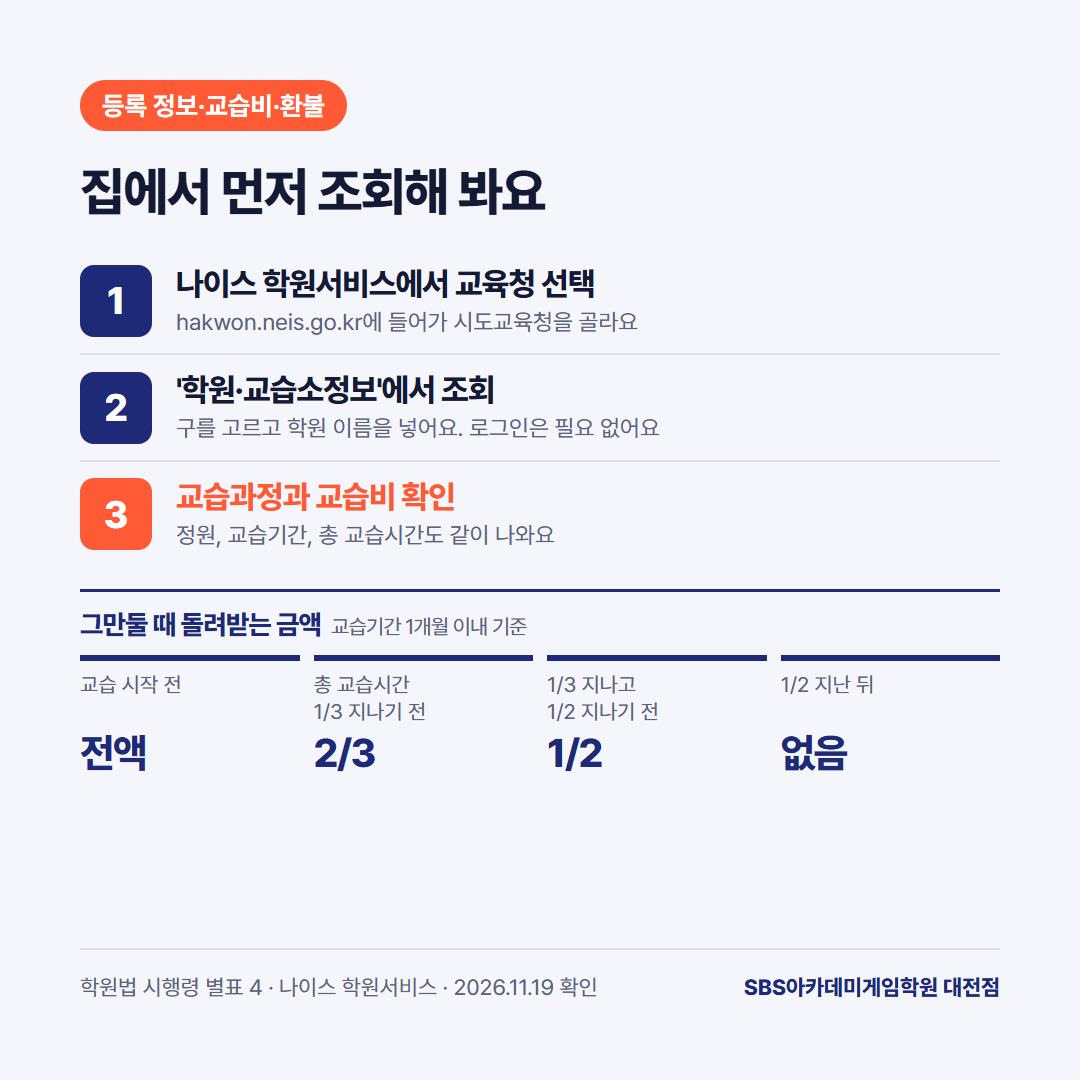
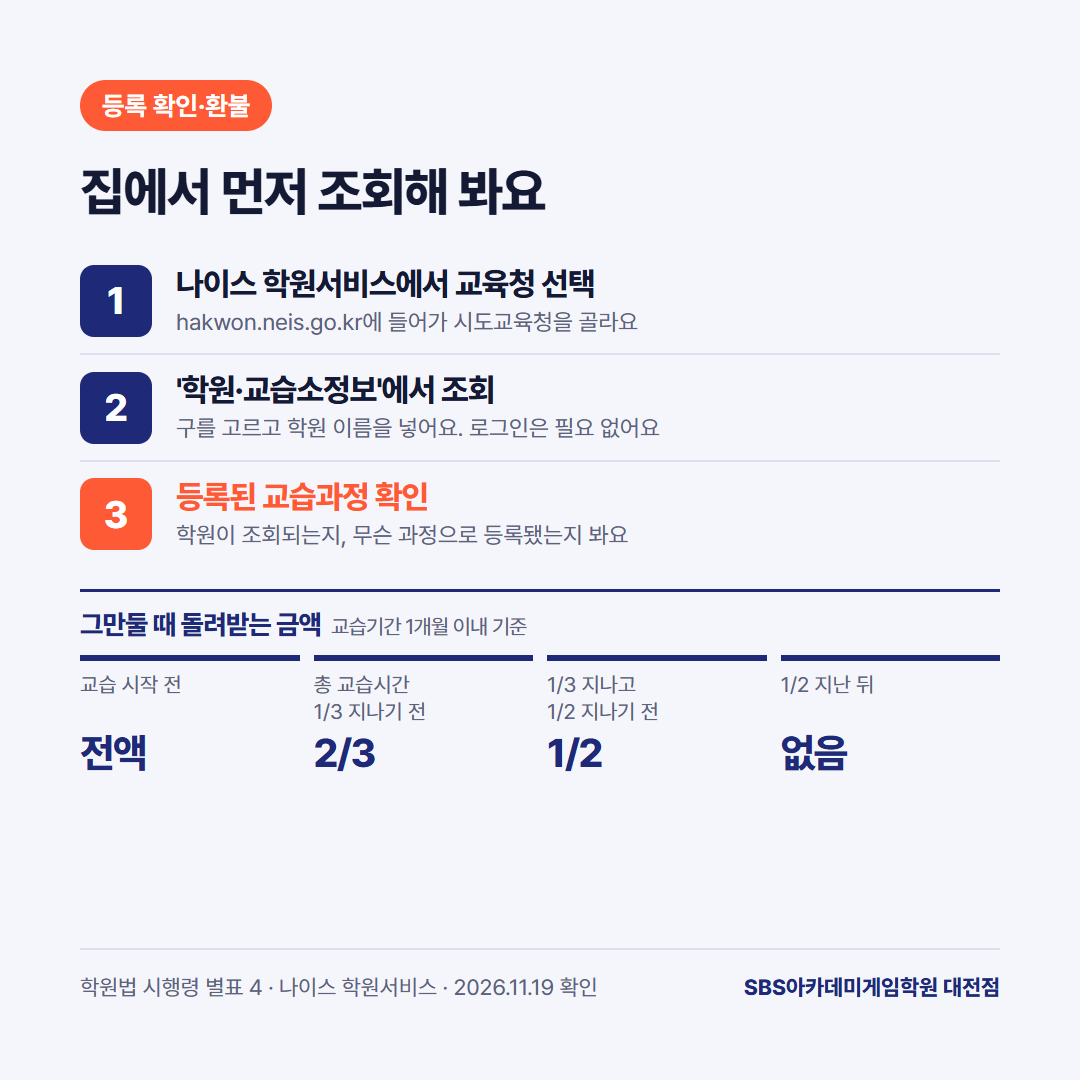
학원비 비공개 원칙·대전점 과정 대조 기록, 일러스트 학원 글 개정(교습비 조회 안내 삭제, 과정 문단 수정) → 티스토리 44번 비공개 저장 (2026-11-19)

Changed region(s): [[0.1528, 0.4278, 0.5806, 0.5194], [0.1222, 0.0611, 0.3361, 0.1222]]

diff --git a/posts/2026-11-19_일러스트-학원-고르는-법/네이버_붙여넣기용.html b/posts/2026-11-19_일러스트-학원-고르는-법/네이버_붙여넣기용.html
@@ -21,7 +21,7 @@ body{margin:0;background:#EEF1F7;font-family:'Malgun Gothic',sans-serif}
 <p style="font-size:15px;line-height:1.8;color:#222;margin:0;">"일러스트 학원 다니려는데 어디가 좋아요?" 상담 전화에서 자주 듣는 질문이에요.</p>
 <p style="font-size:15px;line-height:1.8;color:#222;margin:0;">어디가 좋은지는 뭘 하려고 배우는지에 따라 달라져요. '일러스트 학원'이라는 이름 아래에 서로 다른 학원 네 종류가 섞여 있거든요.</p>
 <p style="margin:0;"><br></p>
-<p style="font-size:15px;line-height:1.8;color:#222;margin:0;">오늘은 그 네 종류부터 갈라 볼게요. 그다음 상담에서 물어볼 것, 교습비를 조회하는 곳, 환불 기준, 국비 순서를 차례로 적었어요.</p>
+<p style="font-size:15px;line-height:1.8;color:#222;margin:0;">오늘은 그 네 종류부터 갈라 볼게요. 그다음 상담에서 물어볼 것, 등록된 학원인지 확인하는 곳, 환불 기준, 국비 순서를 차례로 적었어요.</p>
 <p style="margin:0;"><br></p>
 <p style="font-size:15px;line-height:1.8;color:#222;margin:0;">(2026년 11월 19일에 학원법과 시행령, 나이스 학원서비스 조회 화면을 직접 열어 보고 썼어요.)</p>
 <p style="margin:0;"><br></p>
@@ -29,7 +29,7 @@ body{margin:0;background:#EEF1F7;font-family:'Malgun Gothic',sans-serif}
 <p style="font-size:15px;line-height:1.8;color:#333;margin:0;">· '일러스트레이터 학원'은 프로그램 수업과 그림 수업 두 가지 뜻이에요.</p>
 <p style="font-size:15px;line-height:1.8;color:#333;margin:0;">· 그림을 배우는 곳은 취미, 입시 미술, 포트폴리오 과정으로 또 갈려요.</p>
 <p style="font-size:15px;line-height:1.8;color:#333;margin:0;">· 상담에서는 수업이 끝났을 때 남는 작품부터 물어봐요.</p>
-<p style="font-size:15px;line-height:1.8;color:#333;margin:0;">· 교습비와 교습과정은 나이스 학원서비스에서 조회돼요.</p>
+<p style="font-size:15px;line-height:1.8;color:#333;margin:0;">· 등록된 학원인지는 나이스 학원서비스에서 조회돼요.</p>
 <p style="font-size:15px;line-height:1.8;color:#333;margin:0;">· 환불 기준은 학원법 시행령에 정해져 있어요.</p>
 <p style="margin:0;"><br></p>
 <p style="margin:0;"><br></p>
@@ -79,20 +79,18 @@ body{margin:0;background:#EEF1F7;font-family:'Malgun Gothic',sans-serif}
 <p style="font-size:15px;line-height:1.8;color:#222;margin:0;">여러 학원에 똑같이 묻고 답을 적어 두세요. 나란히 놓으면 차이가 보여요. 그려 둔 그림이 있으면 꼭 가져가세요.</p>
 <p style="margin:0;"><br></p>
 <p style="margin:0;"><br></p>
-<p style="font-size:19px;font-weight:bold;line-height:1.6;color:#1E2A78;margin:0;"><b>등록된 학원인지, 교습비는 얼마인지 여기서 봐요</b></p>
+<p style="font-size:19px;font-weight:bold;line-height:1.6;color:#1E2A78;margin:0;"><b>등록된 학원인지는 여기서 봐요</b></p>
 <p style="margin:0;"><br></p>
 <p style="font-size:15px;line-height:1.8;color:#222;margin:0;">학원은 교육감에게 등록해야 운영할 수 있어요. 등록하면 등록증명서가 나오고 학원 안에 걸어 둬야 해요(학원법 제6조).</p>
-<p style="margin:0;"><br></p>
-<p style="font-size:15px;line-height:1.8;color:#222;margin:0;">교습비도 숨길 수 없게 돼 있어요. 교습비와 환불에 관한 사항은 보기 쉬운 곳에 게시해야 해요. 수강생이나 학부모가 요구하면 내역을 서면으로 알려 줘야 하고요(학원법 제15조).</p>
 <p style="margin:0;"><br></p>
 <p style="font-size:15px;line-height:1.8;color:#222;margin:0;">집에서 미리 조회할 수도 있어요.</p>
 <p style="font-size:15px;line-height:1.8;color:#222;margin:0;">1. 나이스 학원서비스(hakwon.neis.go.kr)에 들어가 시도교육청을 골라요.</p>
 <p style="font-size:15px;line-height:1.8;color:#222;margin:0;">2. '학원·교습소정보' 메뉴에서 구를 고르고 학원 이름을 넣어요.</p>
-<p style="font-size:15px;line-height:1.8;color:#222;margin:0;">3. 결과 표에서 교습과정과 교습비를 봐요. 정원과 교습기간, 총 교습시간도 같이 떠요.</p>
+<p style="font-size:15px;line-height:1.8;color:#222;margin:0;">3. 결과 표에 학원이 나오는지, 교습과정이 뭘로 등록돼 있는지 봐요.</p>
 <p style="margin:0;"><br></p>
-<p style="font-size:14px;line-height:1.6;background:#FFF3B0;color:#6B5500;margin:0;">🖼 [이미지 넣는 자리] 공통_check.png — 사진 설명: 등록 정보와 교습비를 조회하는 순서, 환불 기준을 한 장에 담았어요</p>
+<p style="font-size:14px;line-height:1.6;background:#FFF3B0;color:#6B5500;margin:0;">🖼 [이미지 넣는 자리] 공통_check.png — 사진 설명: 등록된 학원인지 조회하는 순서와 환불 기준을 한 장에 담았어요</p>
 <p style="margin:0;"><br></p>
-<p style="font-size:15px;line-height:1.8;color:#222;margin:0;">로그인 없이 조회돼요. 상담에서 들은 금액이 여기 적힌 교습비보다 많으면 이유를 물어보세요. 등록하거나 게시한 금액을 넘겨 받는 건 법으로 막혀 있어요.</p>
+<p style="font-size:15px;line-height:1.8;color:#222;margin:0;">로그인 없이 조회돼요. 비용은 과정 구성과 기간에 따라 달라서 상담에서 과정을 정한 다음에 확인하는 게 정확해요. 요구하면 내역을 서면으로 받을 수 있어요(학원법 제15조).</p>
 <p style="margin:0;"><br></p>
 <p style="font-size:15px;line-height:1.8;color:#222;margin:0;">대전광역시교육청 학원서비스에는 상담 전화가 둘로 나와 있어요. 동부교육지원청은 042-229-1092~7, 서부교육지원청은 042-530-1082~5예요. 조회 결과가 헷갈리면 전화로 물어보는 게 빨라요.</p>
 <p style="margin:0;"><br></p>
@@ -125,7 +123,7 @@ body{margin:0;background:#EEF1F7;font-family:'Malgun Gothic',sans-serif}
 <p style="margin:0;"><br></p>
 <p style="font-size:19px;font-weight:bold;line-height:1.6;color:#1E2A78;margin:0;"><b>대전에서 찾는다면, 저희가 맞는 분과 안 맞는 분</b></p>
 <p style="margin:0;"><br></p>
-<p style="font-size:15px;line-height:1.8;color:#222;margin:0;">SBS아카데미게임학원 대전점은 넷 중 포트폴리오 과정 쪽이에요. 입시와 취업에 낼 작품을 만드는 게임그래픽, 웹툰, 애니메이션(2D·3D) 과정이 있어요.</p>
+<p style="font-size:15px;line-height:1.8;color:#222;margin:0;">SBS아카데미게임학원 대전점은 넷 중 포트폴리오 과정 쪽이에요. 게임원화·일러스트와 웹툰 과정에서는 입시와 취업에 낼 작품을 만들어요. 게임 3D그래픽 과정은 취업 포트폴리오가 중심이에요.</p>
 <p style="margin:0;"><br></p>
 <p style="font-size:15px;line-height:1.8;color:#222;margin:0;">그림을 가르치는 곳이라도 등록된 교습과정은 미술이 아닐 수 있어요. 그래서 간판보다 상담에서 과정 구성을 듣는 게 정확해요.</p>
 <p style="margin:0;"><br></p>
@@ -144,7 +142,7 @@ body{margin:0;background:#EEF1F7;font-family:'Malgun Gothic',sans-serif}
 <p style="margin:0;"><br></p>
 <p style="font-size:15px;line-height:1.8;color:#222;margin:0;">상담에서 먼저 정한 건 목적이었어요. 취미로 그릴지, 게임 쪽 일을 목표로 할지요. 아직 못 정했다고 해서 그려 둔 그림을 같이 보며 지금 어디쯤인지부터 확인했어요.</p>
 <p style="margin:0;"><br></p>
-<p style="font-size:15px;line-height:1.8;color:#222;margin:0;">계획은 이렇게 잡았어요. 저녁에 들을 수 있는 반이 있는지 확인해요. 교습비와 환불 기준은 서면으로 받아요. 기초 과정을 먼저 들어 보고 포트폴리오 과정으로 갈지 다시 정하기로 했어요.</p>
+<p style="font-size:15px;line-height:1.8;color:#222;margin:0;">계획은 이렇게 잡았어요. 저녁에 들을 수 있는 반이 있는지 확인해요. 과정을 정하면 비용과 환불 기준은 서면으로 받아요. 기초 과정을 먼저 들어 보고 포트폴리오 과정으로 갈지 다시 정하기로 했어요.</p>
 <p style="margin:0;"><br></p>
 <p style="margin:0;"><br></p>
 <p style="font-size:19px;font-weight:bold;line-height:1.6;color:#1E2A78;margin:0;"><b>자주 묻는 질문</b></p>
@@ -166,7 +164,7 @@ body{margin:0;background:#EEF1F7;font-family:'Malgun Gothic',sans-serif}
 <p style="font-size:15px;line-height:1.8;color:#222;margin:0;font-size:13px;color:#888;"><b>참고 자료 (2026년 11월 19일 확인)</b></p>
 <p style="font-size:15px;line-height:1.8;color:#222;margin:0;font-size:13px;color:#888;">· 학원의 설립·운영 및 과외교습에 관한 법률(시행 2026. 10. 1., 국가법령정보센터) — 학원의 종류, 등록과 등록증명서 게시, 교습비 게시·고지, 교습비 반환</p>
 <p style="font-size:15px;line-height:1.8;color:#222;margin:0;font-size:13px;color:#888;">· 같은 법 시행령(시행 2026. 10. 1.) 제16조의3·제18조, 별표 2·별표 4 — 광고 표시 사항, 교습과정 분류, 교습비 반환기준</p>
-<p style="font-size:15px;line-height:1.8;color:#222;margin:0;font-size:13px;color:#888;">· 나이스 학원서비스(hakwon.neis.go.kr) 대전광역시교육청 '학원·교습소정보' 조회 화면 — 조회 조건과 표시 항목, 교육지원청 상담 전화</p>
+<p style="font-size:15px;line-height:1.8;color:#222;margin:0;font-size:13px;color:#888;">· 나이스 학원서비스(hakwon.neis.go.kr) 대전광역시교육청 '학원·교습소정보' 조회 화면 — 조회 조건, 교육지원청 상담 전화</p>
 <p style="font-size:15px;line-height:1.8;color:#222;margin:0;font-size:13px;color:#888;">· 고용24 「국민내일배움카드」 제도 안내(2026년 7월 27일 수정) — 지원 한도, 자부담, 신청 절차</p>
 <p style="font-size:15px;line-height:1.8;color:#222;margin:0;font-size:13px;color:#888;">법령과 조회 화면은 바뀔 수 있어요. 등록하기 전에 원문을 다시 확인해 주세요.</p>
 <p style="margin:0;"><br></p>

diff --git a/posts/2026-11-19_일러스트-학원-고르는-법/티스토리_본문.html b/posts/2026-11-19_일러스트-학원-고르는-법/티스토리_본문.html
@@ -1,6 +1,6 @@
-<p style="margin:0 0 20px !important;"><b>일러스트 학원은 프로그램 교육, 취미 드로잉, 입시 미술, 포트폴리오 과정의 네 종류로 나뉘며 배우는 목적에 맞는 종류부터 정해야 합니다.</b> '일러스트레이터 학원'으로 검색하면 어도비 일러스트레이터 프로그램 수업과 그림 수업이 함께 나옵니다. 종류를 정한 다음에는 상담 질문, 교습비 조회, 환불 기준 순으로 확인합니다.</p>
+<p style="margin:0 0 20px !important;"><b>일러스트 학원은 프로그램 교육, 취미 드로잉, 입시 미술, 포트폴리오 과정의 네 종류로 나뉘며 배우는 목적에 맞는 종류부터 정해야 합니다.</b> '일러스트레이터 학원'으로 검색하면 어도비 일러스트레이터 프로그램 수업과 그림 수업이 함께 나옵니다. 종류를 정한 다음에는 상담 질문, 학원 등록 확인, 환불 기준 순으로 확인합니다.</p>
 
-<p style="margin:0 0 20px !important;">아래에서 검색어의 뜻, 학원 종류, 목적별 기준, 상담 질문, 교습비 조회, 환불 기준, 국비 순서를 차례로 답합니다.</p>
+<p style="margin:0 0 20px !important;">아래에서 검색어의 뜻, 학원 종류, 목적별 기준, 상담 질문, 등록 확인, 환불 기준, 국비 순서를 차례로 답합니다.</p>
 
 <p style="color:#5B6380;font-size:0.9em;margin:0 0 20px !important;">기준: 학원의 설립·운영 및 과외교습에 관한 법률과 시행령(시행 2026년 10월 1일), 나이스 학원서비스 조회 화면, 고용24 국민내일배움카드 안내(2026년 7월 27일 수정본). 2026년 11월 19일 확인</p>
 
@@ -8,12 +8,12 @@
 <p style="margin:0 0 8px !important;font-weight:bold;color:#1E2A78;">핵심 요약</p>
 <ul style="margin:0;padding-left:20px;text-align:left;">
 <li style="margin:4px 0;">일러스트 학원은 프로그램 교육, 취미 드로잉, 입시 미술, 포트폴리오 과정으로 나뉩니다. 목적을 정하면 후보가 줄어듭니다.</li>
-<li style="margin:4px 0;">교습과정과 교습비는 나이스 학원서비스의 '학원·교습소정보'에서 로그인 없이 조회할 수 있습니다.</li>
+<li style="margin:4px 0;">등록된 학원인지와 교습과정은 나이스 학원서비스의 '학원·교습소정보'에서 로그인 없이 조회할 수 있습니다.</li>
 <li style="margin:4px 0;">중도에 그만둘 때의 환불 금액은 학원법 시행령 별표 4가 정합니다. 반환 기한은 사유 발생일부터 5일 이내입니다.</li>
 </ul>
 </div>
 
-<p>[이미지 업로드: 티스토리_썸네일.png / 대체텍스트: 일러스트 학원 고르는 법 – 이름은 같아도 프로그램 교육, 취미 드로잉, 입시 미술, 포트폴리오 과정의 네 종류로 나뉜다. 교습비는 나이스 학원서비스에서 조회하고 환불은 학원법 시행령 별표 4 기준에 따른다]</p>
+<p>[이미지 업로드: 티스토리_썸네일.png / 대체텍스트: 일러스트 학원 고르는 법 – 이름은 같아도 프로그램 교육, 취미 드로잉, 입시 미술, 포트폴리오 과정의 네 종류로 나뉜다. 등록된 학원인지는 나이스 학원서비스에서 조회하고 환불은 학원법 시행령 별표 4 기준에 따른다]</p>
 
 <h2>Q1. '일러스트레이터 학원'은 프로그램 학원입니까, 그림 학원입니까?</h2>
 
@@ -116,23 +116,21 @@
 
 <p style="margin:0 0 20px !important;">마지막 질문에는 그려 둔 그림이 필요합니다. 상담에 그림을 가져가면 학원이 시작 단계를 어떻게 판단하는지 직접 들을 수 있습니다. 게임 분야 학원의 상담 질문은 <a href="https://youknow-that.tistory.com/13">「게임학원 고르는 법」</a> 글에 따로 정리했습니다.</p>
 
-<h2>Q5. 등록 여부와 교습비는 어디에서 확인합니까?</h2>
+<h2>Q5. 등록된 학원인지는 어디에서 확인합니까?</h2>
 
 <p style="margin:0 0 20px !important;">나이스 학원서비스(hakwon.neis.go.kr)의 '학원·교습소정보' 메뉴에서 조회합니다. 학원은 교육감에게 등록해야 운영할 수 있고 등록증명서를 학원에 게시해야 합니다(학원법 제6조).</p>
 
 <ol>
 <li><b>교육청 선택</b> — 나이스 학원서비스에 접속해 학원이 있는 시도교육청을 고릅니다.</li>
 <li><b>조건 입력</b> — '학원·교습소정보' 메뉴에서 행정구역을 고르고 학원명을 입력합니다.</li>
-<li><b>결과 확인</b> — 교습계열, 교습과정, 정원, 교습기간, 총 교습시간, 교습비가 표로 나옵니다.</li>
+<li><b>결과 확인</b> — 학원이 조회되는지와 등록된 교습계열, 교습과정을 확인합니다.</li>
 </ol>
 
-<p>[이미지 업로드: 공통_check.png / 대체텍스트: 일러스트 학원 등록 정보와 교습비 조회 순서 – 1 나이스 학원서비스(hakwon.neis.go.kr)에서 시도교육청 선택, 2 '학원·교습소정보' 메뉴에서 구와 학원 이름 입력, 3 교습과정·정원·교습기간·총 교습시간·교습비 확인. 환불 기준(교습기간 1개월 이내, 학원법 시행령 별표 4) – 교습 시작 전 전액, 총 교습시간 1/3 경과 전 2/3, 1/2 경과 전 1/2, 1/2 경과 후 없음]</p>
+<p>[이미지 업로드: 공통_check.png / 대체텍스트: 일러스트 학원 등록 확인 순서 – 1 나이스 학원서비스(hakwon.neis.go.kr)에서 시도교육청 선택, 2 '학원·교습소정보' 메뉴에서 구와 학원 이름 입력, 3 학원이 조회되는지와 등록된 교습과정 확인. 환불 기준(교습기간 1개월 이내, 학원법 시행령 별표 4) – 교습 시작 전 전액, 총 교습시간 1/3 경과 전 2/3, 1/2 경과 전 1/2, 1/2 경과 후 없음]</p>
 
 <p style="margin:0 0 20px !important;">조회에는 로그인이 필요하지 않습니다. 2026년 11월 19일에 대전광역시교육청 화면에서 직접 조회해 확인했습니다. 행정구역은 필수 입력 항목입니다.</p>
 
-<p style="margin:0 0 20px !important;">교습비 공개는 법이 정한 의무입니다. 학원은 교습비와 반환에 관한 사항을 보기 쉬운 장소에 게시해야 합니다. 학습자나 학부모가 요구하면 내역을 서면으로 알려야 합니다(학원법 제15조 제3항).</p>
-
-<p style="margin:0 0 20px !important;">표시하거나 등록한 금액을 넘는 교습비는 받을 수 없습니다(같은 조 제4항). 광고에는 등록번호와 학원 명칭, 교습과정을 표시해야 합니다(시행령 제16조의3). 상담에서 들은 금액이 조회 결과와 다르면 이유를 확인합니다.</p>
+<p style="margin:0 0 20px !important;">비용은 과정 구성과 기간에 따라 달라지므로 상담에서 과정을 정한 뒤 확인하는 편이 정확합니다. 학습자나 학부모가 요구하면 학원은 내역을 서면으로 알려야 합니다(학원법 제15조 제3항). 광고에는 등록번호와 학원 명칭, 교습과정을 표시해야 합니다(시행령 제16조의3).</p>
 
 <p style="margin:0 0 20px !important;">대전광역시교육청 학원서비스는 상담 전화를 동부교육지원청(042-229-1092~7)과 서부교육지원청(042-530-1082~5)으로 안내합니다. 학원 종류를 가리지 않는 확인 순서는 <a href="https://youknow-that.tistory.com/27">「대전 컴퓨터학원 고르는 법」</a> 글에도 있습니다.</p>
 
@@ -189,7 +187,7 @@
 
 <h2>Q8. 대전에서 찾는다면 어떤 경우에 대전점이 맞습니까?</h2>
 
-<p style="margin:0 0 20px !important;">게임·웹툰 분야의 입시나 취업 포트폴리오가 목적인 경우입니다. SBS아카데미게임학원 대전점은 네 종류 가운데 포트폴리오 과정에 해당합니다. 게임그래픽, 웹툰, 애니메이션(2D·3D) 과정에서 입시용과 취업용 작품을 다룹니다.</p>
+<p style="margin:0 0 20px !important;">게임·웹툰 분야의 입시나 취업 포트폴리오가 목적인 경우입니다. SBS아카데미게임학원 대전점은 네 종류 가운데 포트폴리오 과정에 해당합니다. 게임원화·일러스트와 웹툰 과정은 입시와 취업 포트폴리오를, 게임 3D그래픽 과정은 취업 포트폴리오를 다룹니다.</p>
 
 <p style="margin:0 0 20px !important;">그림을 가르치는 과정이 있어도 등록된 교습과정이 미술로 나오지 않는 학원이 있습니다. 과정 구성은 상담에서 확인하는 편이 정확합니다.</p>
 
@@ -203,7 +201,7 @@
 <p style="margin:0 0 10px !important;"><b>상황</b> — 웹툰을 그리고 싶은 고1입니다. 태블릿으로 그린 팬아트가 있고 소묘는 배운 적이 없습니다. 집 근처에는 입시 미술학원이 있습니다.</p>
 <p style="margin:0 0 10px !important;"><b>고민</b> — "미술학원에서 소묘부터 해야 합니까? 일러스트 학원에서 바로 디지털로 그려도 됩니까?"</p>
 <p style="margin:0 0 10px !important;"><b>확인한 것</b> — 전형에 따라 준비가 달랐습니다. 청강대 2028학년도 시행계획에서 웹툰만화콘텐츠전공 수시 1차는 실기전형 117명, 면접전형 40명입니다. 실기전형은 고사장에서 그리고 면접전형은 미리 만든 작품으로 평가합니다.</p>
-<p style="margin:0 0 10px !important;"><b>세운 계획</b> — 지원할 전형을 2학년 1학기까지 정하기로 했습니다. 그 전에 학원 두 곳에 같은 질문 여섯 가지를 묻기로 했습니다. 교습비와 반환기준은 서면으로 받아 비교하기로 했습니다.</p>
+<p style="margin:0 0 10px !important;"><b>세운 계획</b> — 지원할 전형을 2학년 1학기까지 정하기로 했습니다. 그 전에 학원 두 곳에 같은 질문 여섯 가지를 묻기로 했습니다. 과정을 정한 뒤 비용과 반환기준은 서면으로 받기로 했습니다.</p>
 </div>
 
 <h2>자주 묻는 질문</h2>

diff --git a/posts/2026-11-19_일러스트-학원-고르는-법/images/src/공통_check.html b/posts/2026-11-19_일러스트-학원-고르는-법/images/src/공통_check.html
@@ -18,12 +18,12 @@
 .cell span{display:block;font-size:21px;color:var(--muted);line-height:1.3;min-height:56px}
 .cell b{display:block;font-size:40px;font-weight:800;letter-spacing:-1.5px;color:var(--navy);margin-top:2px}
 </style></head><body><div class="canvas">
-<span class="badge">등록 정보·교습비·환불</span>
+<span class="badge">등록 확인·환불</span>
 <div class="title">집에서 먼저 조회해 봐요</div>
 <div class="steps">
 <div class="step"><div class="n">1</div><div><h3>나이스 학원서비스에서 교육청 선택</h3><p>hakwon.neis.go.kr에 들어가 시도교육청을 골라요</p></div></div>
 <div class="step"><div class="n">2</div><div><h3>'학원·교습소정보'에서 조회</h3><p>구를 고르고 학원 이름을 넣어요. 로그인은 필요 없어요</p></div></div>
-<div class="step hot"><div class="n">3</div><div><h3>교습과정과 교습비 확인</h3><p>정원, 교습기간, 총 교습시간도 같이 나와요</p></div></div>
+<div class="step hot"><div class="n">3</div><div><h3>등록된 교습과정 확인</h3><p>학원이 조회되는지, 무슨 과정으로 등록됐는지 봐요</p></div></div>
 </div>
 <div class="rf">
 <h4>그만둘 때 돌려받는 금액<small>교습기간 1개월 이내 기준</small></h4>

diff --git a/posts/2026-11-19_일러스트-학원-고르는-법/images/src/티스토리_썸네일.html b/posts/2026-11-19_일러스트-학원-고르는-법/images/src/티스토리_썸네일.html
@@ -14,10 +14,10 @@
 <div class="yr">이름은 같아도</div>
 <div class="zero">4종류</div>
 <div class="title">목적에 맞는 종류부터 골라요</div>
-<div class="sub">프로그램 교육, 취미 드로잉, 입시 미술, 포트폴리오 과정<br>종류를 정한 뒤 상담 질문과 교습비, 환불 기준을 봐요</div>
+<div class="sub">프로그램 교육, 취미 드로잉, 입시 미술, 포트폴리오 과정<br>종류를 정한 뒤 상담 질문과 등록 여부, 환불 기준을 봐요</div>
 <div class="rows">
 <div><i>상담</i><b>남는 작품과 피드백 방식부터 질문</b></div>
-<div><i>교습비</i><b>나이스 학원서비스에서 조회</b></div>
+<div><i>등록</i><b>나이스 학원서비스에서 조회</b></div>
 <div><i>환불</i><b>학원법 시행령 별표 4 기준</b></div>
 </div>
 <div class="foot"><span>학원법·시행령 · 나이스 학원서비스 · 2026.11.19 확인</span><span><b>SBS아카데미게임학원 대전점</b></span></div>

diff --git a/posts/2026-11-19_일러스트-학원-고르는-법/images/src/네이버_썸네일.html b/posts/2026-11-19_일러스트-학원-고르는-법/images/src/네이버_썸네일.html
@@ -11,6 +11,6 @@
 <div class="eyebrow">일러스트 학원을 찾고 있다면</div>
 <div class="big">간판보다<br>종류부터<br>갈라 봐요</div>
 <div class="sub">프로그램 수업인지 그림 수업인지<br>전화 한 통으로 먼저 확인해요</div>
-<div class="order">상담 질문 여섯 가지, 교습비 조회, 환불 기준<small>학원법과 시행령, 나이스 학원서비스 기준</small></div>
+<div class="order">상담 질문 여섯 가지, 등록 확인, 환불 기준<small>학원법과 시행령, 나이스 학원서비스 기준</small></div>
 <div class="foot"><span><b>SBS아카데미게임학원 대전점</b> 입시&amp;취업상담팀</span><span>2026.11</span></div>
 </div></body></html>

diff --git a/docs/인수인계_마케팅채널.md b/docs/인수인계_마케팅채널.md
@@ -88,6 +88,7 @@
 - 2026-11-18 블로그(사용자 "오늘 티스토리 및 네이버 블로그 써줘"): posts/2026-11-18_게임학과-입시-고2-겨울방학 — 새 묶음 "게임학과 입시 고2 겨울방학"(검색량보다 2026-11-17 주제 선정 기준으로 고름, 카드 22와 같은 방향). 네이버 「성적 낮은 고2, 게임학과 가려면 겨울방학에 뭐부터 할까요?」(발행은 사용자) / 티스토리 「예비 고3 게임학과 입시: 2028 수시 일정과 겨울방학 포트폴리오 순서」 **https://youknow-that.tistory.com/42 비공개 저장**(카테고리 입시 정보, 공개 전환은 사용자). 포크 작성 → 본 세션이 전문대학포털 일정표와 청강대·계원예대 2028학년도 시행계획 PDF를 다시 열어 대조(일치), humanize light 변경 0, 모바일 확인. 핵심 수치: 2028학년도 전문대 수시 1차 2027.9.20~10.8·수시 2차 11.12~26·정시 2028.1.3~17(전문대학포털), 청강대 게임전공 면접전형 수시 1차 88·2차 50명 면접 100%·학생부 미반영, 실기전형 80명 실기 70%+학생부 30%, 수능·최저 '해당 없음', 면접·실기 10.23~31(시행계획 2026-04), 계원예대 게임미디어과 수시 2차 비교과 38명 면접 100%. 분야별 제출물·면접 15분·한국영상대는 2027학년도 요강 기준으로 표기. 확정 요강은 2027년 5월 이후. 미확인으로 뺀 것: 4년제 수시 마감일, 2028학년도 수능일, 5등급제 등급별 누적 비율, 한국영상대 2028 시행계획, 2028학년도 제출물. 방학 다섯 단계·분야 고르는 기준·막히는 네 곳은 작성자 조언(학원 수업 내용 아님). '만든 게 없어도 상담할 수 있다'는 문구는 사용자 확인 항목. '열 달'은 11-18 기준이라 발행이 늦어지면 수정. 티스토리 업로드는 스크래치 tistory_upload_run.py(완료 줄에서 바로 종료)로 약 1분.
 - 2026-11-19 당일분 SNS(사용자 "오늘 SNS 2건과 블로그 2건 작성해줘"): 릴스 r21(「비전공자 게임업계 취업 가능성은?」 8ZNxLDqaOE4 — 전공보다 입사 시험·면접에서 보이는 수준으로 판단한다는 이야기, CTA는 '비전공이라 뭐부터 만들지') https://www.instagram.com/reel/Df55erfE6oY/ · 게시물 23(「국비 수업, 카드보다 상담 먼저」 6장, 기억 요소 '상담 먼저', 11-12 국비 글 확인분 + profile.md) https://www.instagram.com/p/Df55puXj2EE/ 게시(게시 후 재조회로 확인). 둘 다 2026-11-17 주제 선정 기준으로 고름(독자의 고민: 비전공, 국비 순서). humanize light 변경 0(run _workspace/2026-11-19-001-2100). 릴스 캡션은 화면 자막을 띠로 잘라 직접 읽은 말만 씀(출연자 이름·연봉 금액 미기재). 릴스 다음 후보와 자막 확인 여부는 instagram/reels/README.md 11-19 메모.
 - 2026-11-19 블로그(같은 지시): posts/2026-11-19_일러스트-학원-고르는-법 — 새 묶음 "일러스트 학원 고르는 법"(합산 2,370: 일러스트학원 1,080·디지털드로잉학원 580·일러스트레이터학원 380 등, 10-29·10-04 묶음과 일부 중복 등록). 검색량과 2026-11-17 주제 선정 기준(학원을 찾는 사람이 읽는 글)을 함께 보고 고름. 네이버 「일러스트 학원 고르는 법, 상담 가기 전에 종류부터 보세요」(발행은 사용자) / 티스토리 「일러스트 학원 고르는 법: 종류 4가지, 상담 질문, 환불 기준」 **https://youknow-that.tistory.com/43 비공개 저장**(카테고리 과정 안내, 공개 전환은 사용자). 포크 작성 → 본 세션이 학원법·시행령 조문과 별표 4를 국가법령정보센터에서 다시 열어 대조(일치), humanize light 변경 0, 모바일 확인. 핵심 사실: '일러스트레이터 학원'의 두 뜻(프로그램 수업/그림 수업), 목적별 네 종류(작성자 분류), 상담 질문 여섯 가지(작성자 조언), 나이스 학원서비스(hakwon.neis.go.kr) '학원·교습소정보'에서 교습과정·교습비 조회(로그인 불필요), 학원법 제6조(등록·등록증명서 게시)·제15조(교습비 게시·서면 고지·초과 징수 금지), 시행령 별표 4 환불 기준·제18조 제3항 5일, 국비는 상담 → 과정 확인 → 카드 신청. **본 세션이 뺀 것**: 나이스에 나오는 대전점 등록 정보(교습계열 '컴퓨터'·교습과정 '게임') 문장, '일러스트레이터 프로그램·디자인 자격증 목적이면 대전점은 맞지 않는다'는 단정(완화). 대전점에 그 과정이 실제로 없는지는 사용자 확인 필요. 참고: 11-03 「대전 컴퓨터학원」 글은 나이스 조회 항목을 '위치·전화번호·교습과목·교습비'로 적었는데 실제 화면 열은 교습계열·교습과정·교육과목·정원·교습기간·총교습시간·교습비다(수정 여부 사용자 판단). 티스토리 로그인이 이날도 풀려 있었고 로그인 창이 두 번 시간 초과로 닫힘 → 사용자가 자리에 있을 때 띄울 것.
+- 2026-11-19 오후 개정(사용자: "[상담 준비/자료 정리/DB규정] 세션과 대화해서 우리 학원 과정을 먼저 인지할 것. 학원비도 먼저 공개하고 싶지 않고"): ① **학원비 비공개 원칙**을 brand/profile.md '쓰지 않는 표현'에 추가 — 금액을 쓰지 않고 금액 조회처(나이스 교습비)로 안내하지도 않는다. ② 그 세션에 대전점 과정을 물어 회신받음(금액·개인정보·강사 이름 제외). 분야 수준 요약만 profile.md에 반영하고 **커리큘럼 상세는 '유출 및 공개금지' 자료라 이 공개 저장소에 적지 않음**(로컬 메모리에만 둠). 대전 강사 자료가 있는 분야: 게임 3D그래픽·게임원화·일러스트·AI·게임기획·게임프로그래밍·웹툰·웹소설. 애니메이션(2D·3D)·게임QA 등은 대전 자료 미확인 → 쓰기 전 사용자 확인(10-24 사용자 확인분과 어긋남). ③ 「일러스트 학원 고르는 법」 개정: 교습비 조회 안내 삭제(등록 확인 중심), 이미지 3장 교체, 대전점 문단을 게임원화·일러스트·웹툰·게임 3D그래픽으로 수정 → **티스토리 44번 https://youknow-that.tistory.com/44 비공개 저장**. 43번은 개정 전 판이라 쓰지 않음(삭제는 사용자 확인 후). 네이버 붙여넣기 파일도 개정본으로 다시 전달. ④ 이미 공개된 글 중 교습비 조회를 안내한 곳: 티스토리 27번 「대전 컴퓨터학원」('나이스 … 교습비가 나와요')과 그 네이버 판 — 수정 여부 사용자 결정 대기. 13번 「게임학원 고르는 법」은 '교습비와 환불 기준을 서면으로 받기'(상담 질문)만 있음.
 - 2026-11-10 티스토리 문단 간격(사용자가 33번 글 캡처를 보고 문단이 붙어 보이는 점 확인 → "다음부터 적용해줘"): 원인은 스킨(Odyssey)이 본문 영역 `.tt_article_useless_p_margin`의 `<p>` 여백·패딩을 `!important`로 0으로 만드는 것(공개 글 /25에서 계산값 확인: 일반 인라인 margin은 무시, `margin-bottom:20px !important`는 20px 적용). 조치: `tcomp.p()`가 `<p style="margin:0 0 20px !important;">`를 내도록 변경(P_STYLE), 회색 보조 문구·핵심 요약 제목·가상 사례·FAQ 답도 `!important` 여백 추가, 템플릿 [0] 부품·SKILL.md 가독성 규칙 추가, build_guides.py가 스타일 없는 본문 `<p>`를 오류로 잡고 새 형식 문단도 300자·80자 점검. 업로더에 `probe <파일.html>` 명령 추가(편집기에 넣었다가 읽어 출력만, 저장 안 함) — 편집기가 `!important`를 유지함을 확인(본문 전체 25/25). **적용 범위: 다음 글부터.** 기존 글 1~33번은 그대로(문단이 붙어 보임) — 고치려면 ① 원고 `<p>`를 새 형식으로 바꿔 `replace`로 교체하거나 ② 티스토리 관리 → 콘텐츠 설정의 '단락 앞뒤 공백' 옵션을 켜는 방법이 있음(②는 블로그 전체에 한 번에 적용되지만 계정 설정 변경이라 사용자 결정 필요, 새 형식 글은 인라인 값이 우선이라 중복되지 않음). 이미지 자리 `<p>[이미지 업로드: …]</p>`는 업로더 정규식 때문에 스타일 없이 둔다. 옛 글 폴더에 build_guides를 다시 돌리면 '문단 간격 스타일 없는 <p>' 오류가 나는 것은 정상. 참고: 새 이미지를 올린 직후 글에 뜨는 '전기통신사업법 … 검토중입니다' 회색 상자는 카카오의 자동 심사 대기 표시로 몇 분 뒤 사라짐(문제 아님).
 - 2026-11-10 당일분(사용자 "11월 10일 SNS 게시글, 릴스 게시 안했으면 바로 해주고 티스토리 업로드까지"): **게시물**은 같은 날 올린 카드뉴스 14(https://www.instagram.com/p/Dfira6Wj9tc/)로 갈음. **릴스 r12**(청강대 게임 기획 합격생 인터뷰 Qk7I9u6eJ7g, 45초; 원본 VP9라 imageio-ffmpeg로 H.264 재인코딩) https://www.instagram.com/reel/DfizLorHALK/ — 캡션은 자동 자막 내용만(영상 제목의 '3개월 만에 합격'·설명란 수강생 이름 미사용), humanize light 쉼표 2개 제거, verify_gates는 P1 쉼표율 미달로 WARN(짧은 캡션에 나열용 쉼표 1개를 일부러 남김, 의미·서법 이상 없음). **티스토리** 「게임 배경 원화가 되는 법: 컨셉아트 하는 일·연습 순서·포트폴리오 (2026)」 posts/2026-11-10_게임-배경-원화가-되는-법 (새 묶음 "컨셉아트", 합산 265 — 컨셉아트 190·컨셉아트학원 30·배경원화 15·게임배경원화 10·배경컨셉아트 10·배경원화학원 10; 서치콘솔에서 '배경 원화가' 검색어가 6번 글로 들어오는 것을 근거로 선정, 10-04 원화가 묶음에서 분리) — 포크 작성 → Q4 소제목 '신입 공고'→'채용 공고' 수정 → humanize light(분열문 3문장) → 모바일 확인 → **33번 비공개 저장** https://youknow-that.tistory.com/33 (check는 '로그인 필요'였지만 업로드 중 카카오 버튼 자동 클릭으로 통과). 내부 링크 6건(/6·/10·/12·/24·/30·/23). 발행 전 확인: 시프트업 공고(채용시 마감, 경력 무관·3년 우대)·빅게임스튜디오 공고(9-20 마감)·NC 공고(11-27 마감, 경력 2년) 표기, Q1 표 '쓰이는 곳' 표현과 NC 원문 대조, Q2 '모듈화' 해석·Q4 포트폴리오 6가지는 공고에서 끌어낸 제안, Q5 게임그래픽 과정 서술·가상 사례(캐릭터만 그려 온 고2), 광고 표시 문구. 다음 차례: 릴스 r13 후보 '안 늦었어요'(YJiVm0_X6MA) 1편 뒤 새 묶음 필요; 카드뉴스 15 후보 10-31 그래픽 디자이너·11-03 대전 컴퓨터학원·11-06 3D 모델링 사이트·11-09 게임 만들기·11-10 배경 원화가; 블로그 후보 게임 자격증(게임국가기술자격 3종·유니티 자격증, 합산 약 395)·C#(430, 유니티 입문 Q3와 겹침 확인). 티스토리 31·32·33번 비공개 → 사용자 검수·공개 전환 후 색인 요청.
 - 2026-11-10 구글 색인 요청 2일차(사용자 "색인 요청 진행"): 남은 8편 16·14·13·12·10·9·8·7번 모두 '색인 생성 요청됨' 확인, 할당량 초과 없음 → **미색인 20편 전부 요청 완료**(11-09 12편 + 11-10 8편). 요청 직후 '페이지 색인 생성' 보고서는 그대로(색인 9 / 미색인 28: 발견됨 27·크롤링됨 1) — 보고서는 며칠 늦게 갱신되므로 **11-13~11-17쯤 다시 확인**하고, 그때도 '발견됨'으로 남은 글은 내부 링크·외부 링크(네이버 블로그·인스타 링크 페이지)를 더 건다. 새로 올린 32번(게임 기획·분석, 비공개)은 공개 전환 뒤 색인 요청 필요. 절차 메모(패널 화면이 좁아 요청 링크가 화면 밖에 있을 때): 뷰포트 1280×900 설정 → 상단 URL 검사 combobox ref 클릭 → Ctrl+A → 주소 입력 → Enter → 16초 대기 → find '색인 생성 요청다시 요청'의 **마지막 ref** 클릭 → 70초 대기 → find 'check_circle색인 생성 요청됨' 확인 → Escape로 닫기. 닫기 버튼 ref·좌표 클릭은 실패하니 Escape를 쓴다.

diff --git a/brand/profile.md b/brand/profile.md
@@ -33,6 +33,7 @@
 ## 전문 분야 (질문군의 범위)
 - 주요 주제: 게임학과 입시, 게임 포트폴리오, 게임 업계 취업
 - 주요 과정: 게임그래픽 · 웹툰 · 웹소설 · 게임프로그래밍 · 게임기획 (입시 및 취업 포트폴리오) — 티스토리 블로그 설명 기준
+  - 과정 대조(2026-11-19, 사용자 지시로 "상담 준비/자료 정리/DB규정" 세션에 확인): 대전 강사 커리큘럼 자료가 있는 분야는 **게임 3D그래픽 · 게임원화·일러스트(취업·입시) · AI(일러스트·게임 제작) · 게임기획 · 게임프로그래밍(유니티·언리얼) · 웹툰(작화·연출·PD·입시) · 웹소설**. 애니메이션(2D·3D)·게임QA·이펙트·UI·이모티콘·일러스트레이터/포토샵 단독 과정·디자인 자격증반은 대전 자료가 없어 **대전 과정으로 쓰기 전에 사용자 확인**. 커리큘럼 상세(기간·순서·툴 구성)는 내부 자료라 이 공개 저장소에 적지 않고, 요일·시간대는 대외 글에 쓰지 않는다
   - 추가 확인(2026-10-24 사용자): 게임프로그래밍은 **유니티&언리얼** 모두, **AI개발**, **애니메이션(2D, 3D)** 과정도 있음. 국비(고용24) 프로그래밍 과정은 유니티 기준 그대로
 - 3D 그래픽 주력 툴: **3ds Max · 지브러쉬(ZBrush) · 서브스턴스 페인터** (2026-10-13 사용자 확인). 3D 관련 글은 이 조합을 중심에 둔다. **블렌더는 수업에 없음(2026-11-16 사용자 확인)** — 블렌더를 주제로 한 글·카드뉴스는 만들지 않고, 새로 쓰는 글에서는 블렌더를 언급하지 않는다(2026-11-16 블렌더 입문 초안은 미발행 처리). 글·카드 주제로 삼는 툴은 수업에서 다루는 것만
 - 국비(고용24 등재) 과정 3개 (2026-10-15 사용자 확인)
@@ -75,5 +76,6 @@
 - 폰트: Pretendard (SIL OFL)
 
 ## 쓰지 않는 표현
+- **학원비(수강료·교습비) 금액은 쓰지 않는다. 금액을 조회할 수 있는 곳(나이스 학원서비스의 교습비 항목 등)으로 독자를 안내하지도 않는다** (2026-11-19 사용자: "학원비도 먼저 공개하고 싶지 않고"). 비용은 '과정 구성과 기간에 따라 달라서 상담에서 과정을 정한 뒤 안내' 수준으로 쓴다. 등록 학원 확인 방법, 법정 환불 기준(비율), 국비 한도·자부담 범위 같은 제도 정보는 써도 된다
 - 출처 없는 "취업률 ○○%", "합격률 ○○%", "합격 보장", "최고/1위"
 - 가상 사례를 실제 수강생·합격생인 것처럼 쓰는 표현

diff --git a/posts/2026-11-19_일러스트-학원-고르는-법/작업보고서.md b/posts/2026-11-19_일러스트-학원-고르는-법/작업보고서.md
@@ -107,3 +107,10 @@
 - humanize light: 네이버 run _workspace/2026-11-19-002-1b88, 티스토리 run _workspace/2026-11-19-003-fafb — 둘 다 변경 0, 게이트 OK(서법 소실 0).
 - 이미지 5장 직접 확인, 모바일 375px 미리보기 14장 확인(문단 간격·표 가로 스크롤·이미지·상담 배너 정상).
 - 티스토리 비공개 저장: https://youknow-that.tistory.com/43 (peek: 문단 36개 중 20px 28·10px 4·0px 4, 심사 대기 없음). 로그인 창이 두 번 시간 초과로 닫혀 세 번째에 사용자가 로그인, 저장은 약 1분. 공개 전환은 사용자.
+
+## 사용자 지시 반영 개정 (2026-11-19 오후)
+- 사용자: "학원비도 먼저 공개하고 싶지 않고" → 나이스 학원서비스에서 **교습비를 조회하는 안내를 삭제**하고 '등록된 학원인지 확인'으로 바꿈. 삭제한 문장: 교습비 게시 의무 설명, '상담에서 들은 금액이 조회 금액보다 많으면 이유를 물어보라', 결과 표의 교습비·정원·교습시간 항목. 대신 '비용은 과정 구성과 기간에 따라 달라서 상담에서 과정을 정한 뒤 확인'으로 씀. 법정 환불 기준(비율)과 서면 고지(학원법 제15조)는 유지.
+- 이미지 3장 다시 렌더: 네이버_썸네일('교습비 조회' → '등록 확인'), 티스토리_썸네일('교습비' 줄 → '등록'), 공통_check(3단계 '교습과정과 교습비 확인' → '등록된 교습과정 확인').
+- 사용자 지시로 '상담 준비/자료 정리/DB규정' 세션에 대전점 과정을 확인 → 대전점 안내 문단을 '게임원화·일러스트, 웹툰(입시·취업 포트폴리오), 게임 3D그래픽(취업 포트폴리오)'으로 고침. 애니메이션(2D·3D)은 대전 강사 자료가 없어 뺌.
+- 이 개정 문장들은 humanize 에이전트를 다시 돌리지 않고 본 세션이 직접 다듬음. build_guides '이상 없음', build_naver_html 재실행.
+- 티스토리: 개정본을 **44번** https://youknow-that.tistory.com/44 으로 새로 비공개 저장(이미지가 바뀌어 새 글로 올림) 후 과정 문단은 replace로 교체(peek: 문단 35개 중 20px 27·10px 4·0px 4). **43번은 개정 전 판(교습비 조회 안내 포함)이라 쓰지 않음** — 삭제는 사용자 확인 후.
